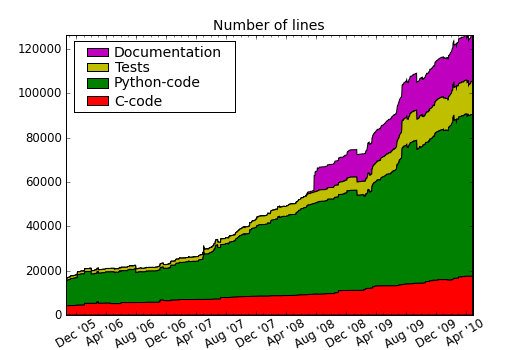
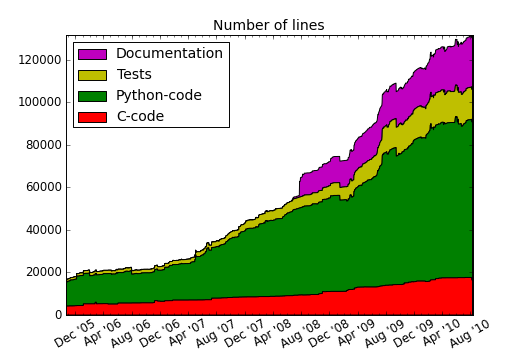
Update code count and corresponding script (pl.load has been deprecated; use np.loadtxt)

diff --git a/tools/code-count.py b/tools/code-count.py
@@ -2,6 +2,7 @@
 
 import os
 import datetime
+import numpy as np
 import pylab as pl
 
 
@@ -20,7 +21,7 @@ def polygon(x, y1, y2, *args, **kwargs):
 
 def plot_count(fname, dpi=70):
     # Load data
-    date, libxc, c, code, test, doc = pl.load(fname, unpack=True)
+    date, libxc, c, code, test, doc = np.loadtxt(fname, unpack=True)
     zero = pl.zeros_like(date)
 
     fig = pl.figure(1, figsize=(7.5, 5), dpi=dpi)
